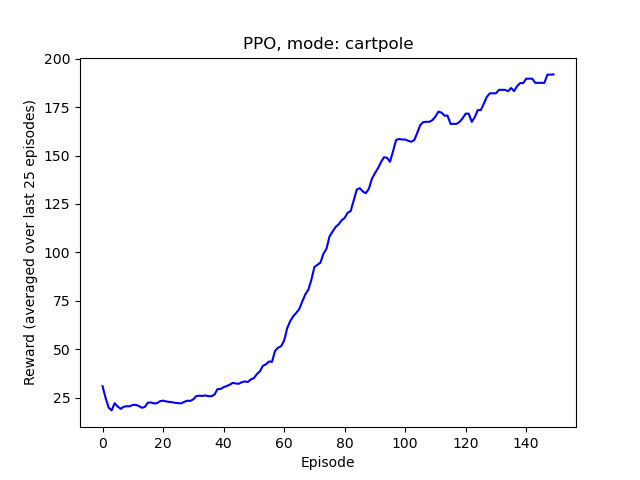
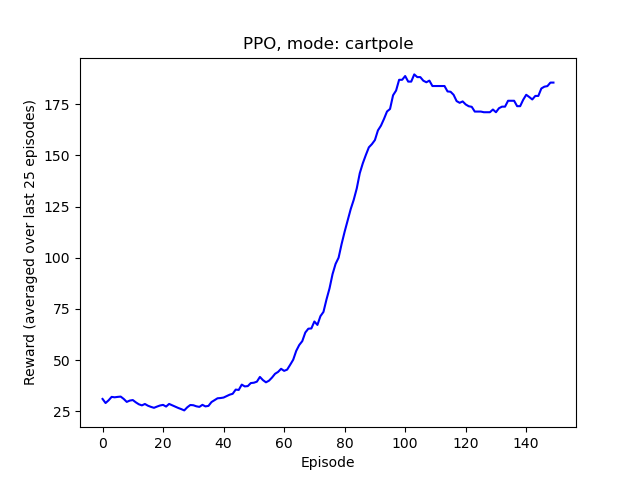
change seeds=10

diff --git a/a02/p2/REINFORCE.py b/a02/p2/REINFORCE.py
@@ -25,7 +25,7 @@ parser.add_argument('--mode', type=str, default="cartpole")
 args = parser.parse_args()
 
 # Constants
-SEED = 3
+SEED = 10
 t = utils.torch.TorchHelper()
 DEVICE = t.device
 

diff --git a/a02/p2/REINFORCE_Baseline.py b/a02/p2/REINFORCE_Baseline.py
@@ -25,7 +25,7 @@ parser.add_argument('--mode', type=str, default="cartpole")
 args = parser.parse_args()
 
 # Constants
-SEED = 3
+SEED = 10
 t = utils.torch.TorchHelper()
 DEVICE = t.device
 

diff --git a/a02/p2/PPO.py b/a02/p2/PPO.py
@@ -26,7 +26,7 @@ args = parser.parse_args()
 
 
 # Constants
-SEED = 42
+SEED = 10
 t = utils.torch.TorchHelper()
 DEVICE = t.device
 
